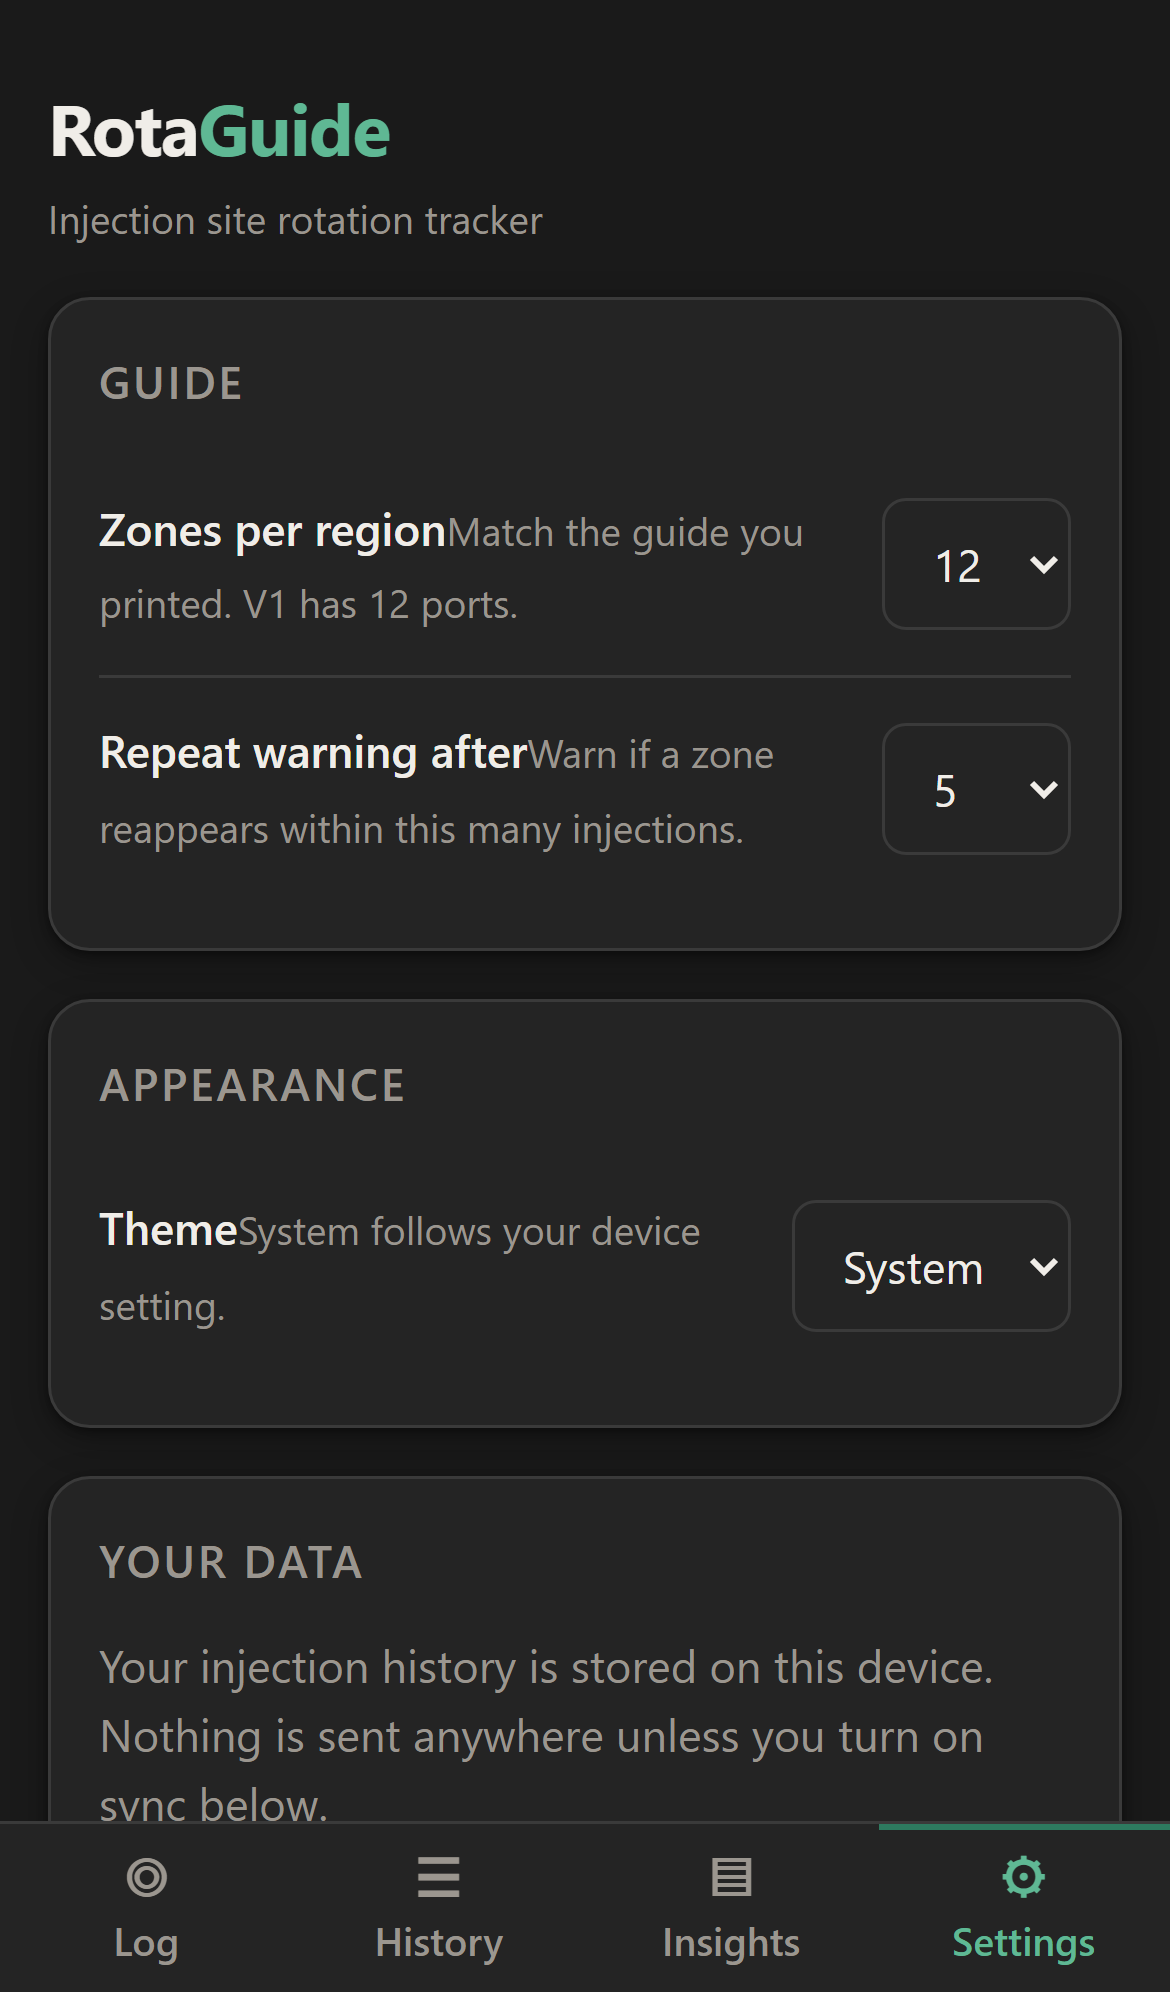
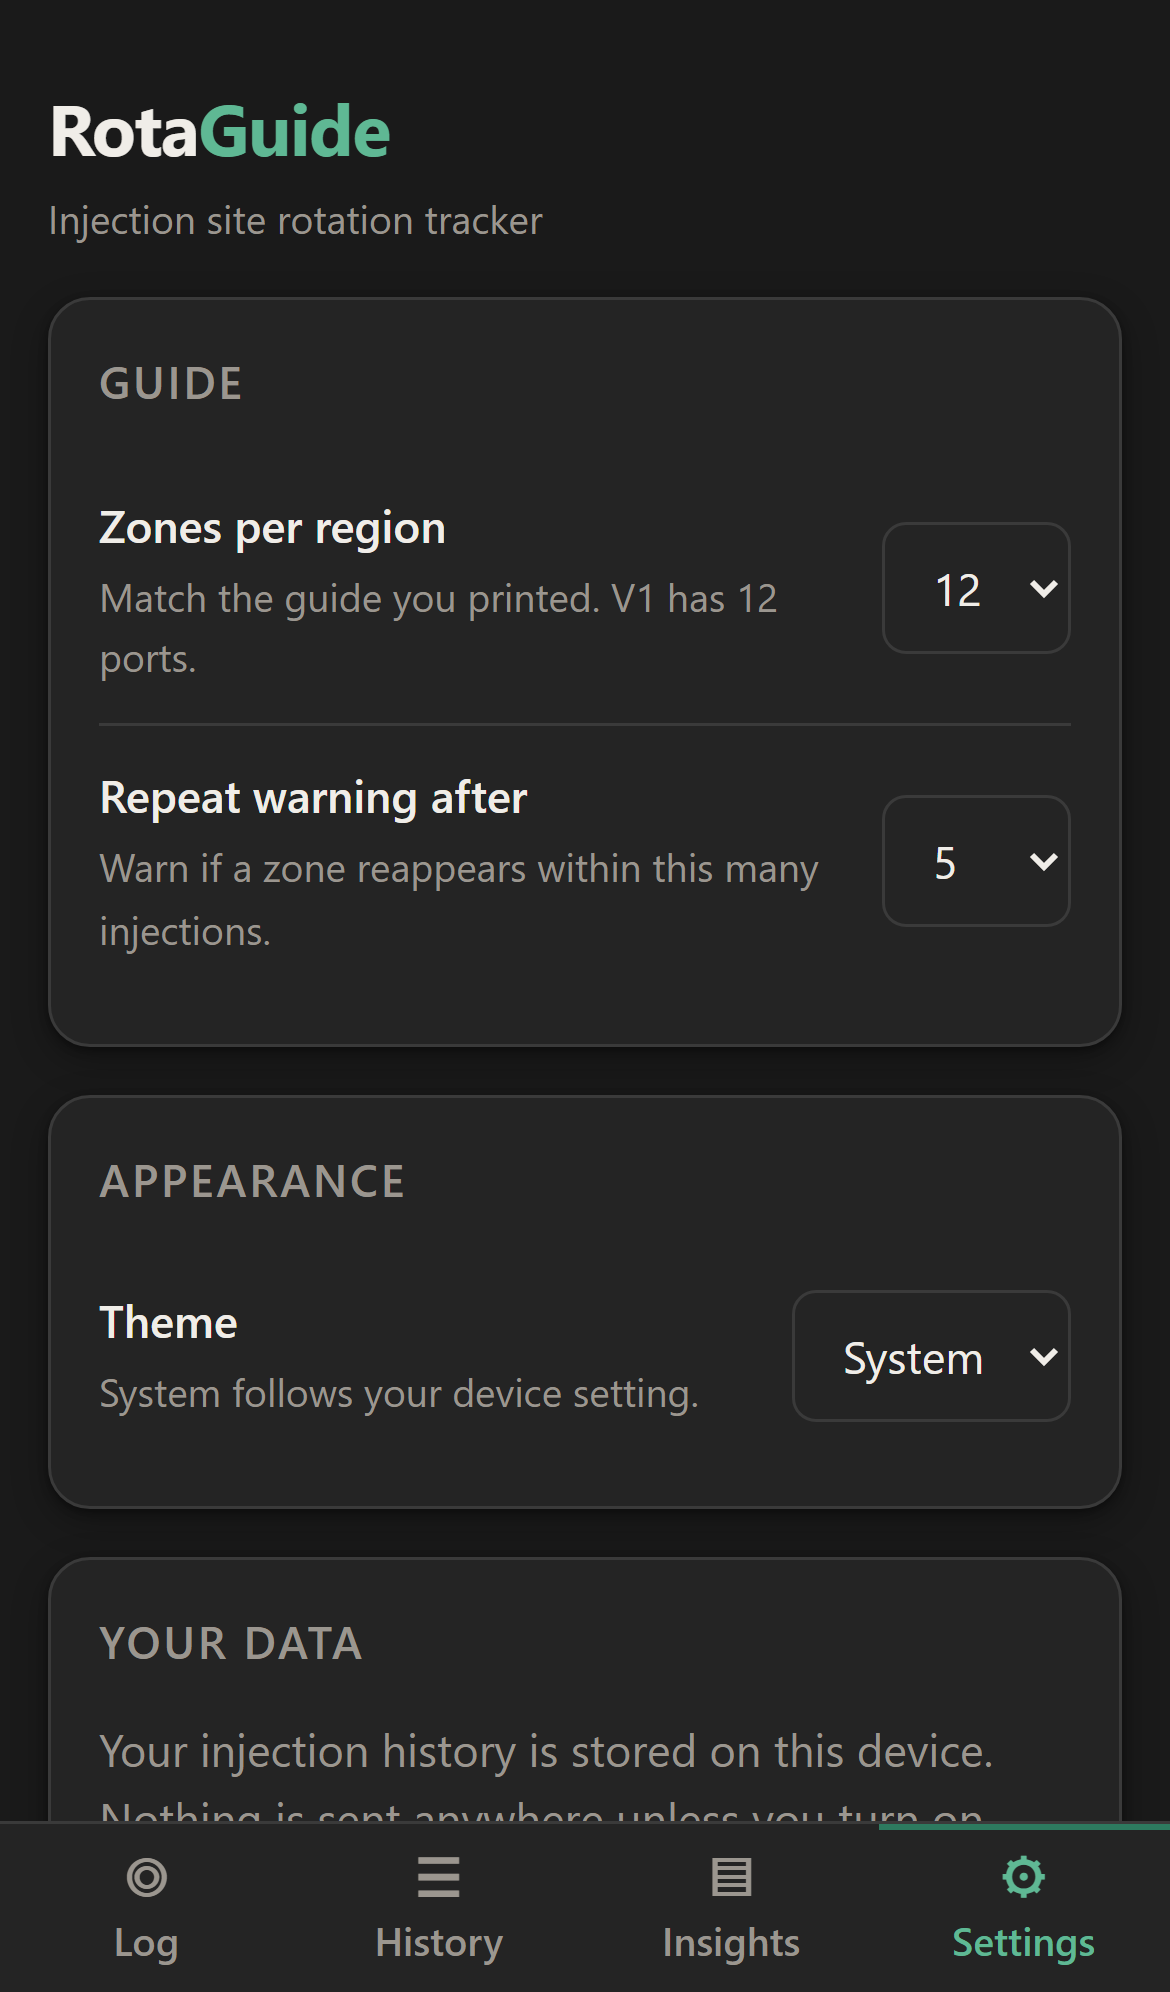
chore: deploy config, env example, README badges, settings layout fix
Wires up Vercel (clean URLs so /app and /v1 resolve, plus basic security
headers), documents the optional Supabase variables, and adds CI and
coverage badges.

Also fixes a layout bug the screenshot pipeline caught: the label and
hint in each settings row are both spans inside a <label> with no
display rule, so they rendered on one line — 'Zones per regionMatch the
guide you printed'. Regenerated the screens afterwards.

Claude-Session: https://claude.ai/code/session_014xeEA3DJnq33i4VofGCJ1k

diff --git a/apps/app/src/styles/app.css b/apps/app/src/styles/app.css
@@ -483,12 +483,16 @@ body {
   border-bottom: none;
 }
 
+/* Both are spans inside a <label>; without this they run together on
+   one line ("Zones per regionMatch the guide you printed"). */
 .setting__label {
+  display: block;
   font-size: var(--rg-text-sm);
   font-weight: 600;
 }
 
 .setting__hint {
+  display: block;
   font-size: var(--rg-text-xs);
   color: var(--rg-text-muted);
   margin-top: 2px;

diff --git a/README.md b/README.md
@@ -4,6 +4,11 @@
 
 BMEN 668 capstone · University of Calgary · Feb–Apr 2026
 
+[![CI](https://github.com/shayanardeshiri7/rotaguide-project/actions/workflows/ci.yml/badge.svg)](https://github.com/shayanardeshiri7/rotaguide-project/actions/workflows/ci.yml)
+![domain coverage 100%](https://img.shields.io/badge/domain%20coverage-100%25-2D7A5F)
+![tests 159](https://img.shields.io/badge/tests-159-2D7A5F)
+![licence MIT](https://img.shields.io/badge/licence-MIT-6B6560)
+
 [Live app](https://app-rotaguide.vercel.app) · [Project site](https://rotaguide.vercel.app) · [The original v1](https://rotaguide.vercel.app/v1/)
 
 > **Not a medical device.** This is a student engineering prototype from a university course. It has not been evaluated by any regulator and does not provide medical advice.
@@ -72,13 +77,18 @@ The part worth reading is `apps/app/src/domain`. It is framework-free by contrac
 ```bash
 pnpm install
 pnpm dev          # tracker on :5173, site on :3000
-pnpm test         # unit + component tests
+pnpm test         # 140 unit + component tests
 pnpm test:coverage
-pnpm e2e          # Playwright, includes axe accessibility checks
+pnpm e2e          # 19 Playwright tests, including axe accessibility checks
 pnpm build
 ```
 
 Requires Node ≥ 20.11 and pnpm.
+
+Optional cloud backup needs a Supabase project. Copy `apps/app/.env.example`
+to `apps/app/.env`, fill it in, and apply `supabase/migrations/`. Without
+those variables the feature is simply absent — the app is fully functional
+local-only, which is the intended default.
 
 ## Privacy
 
